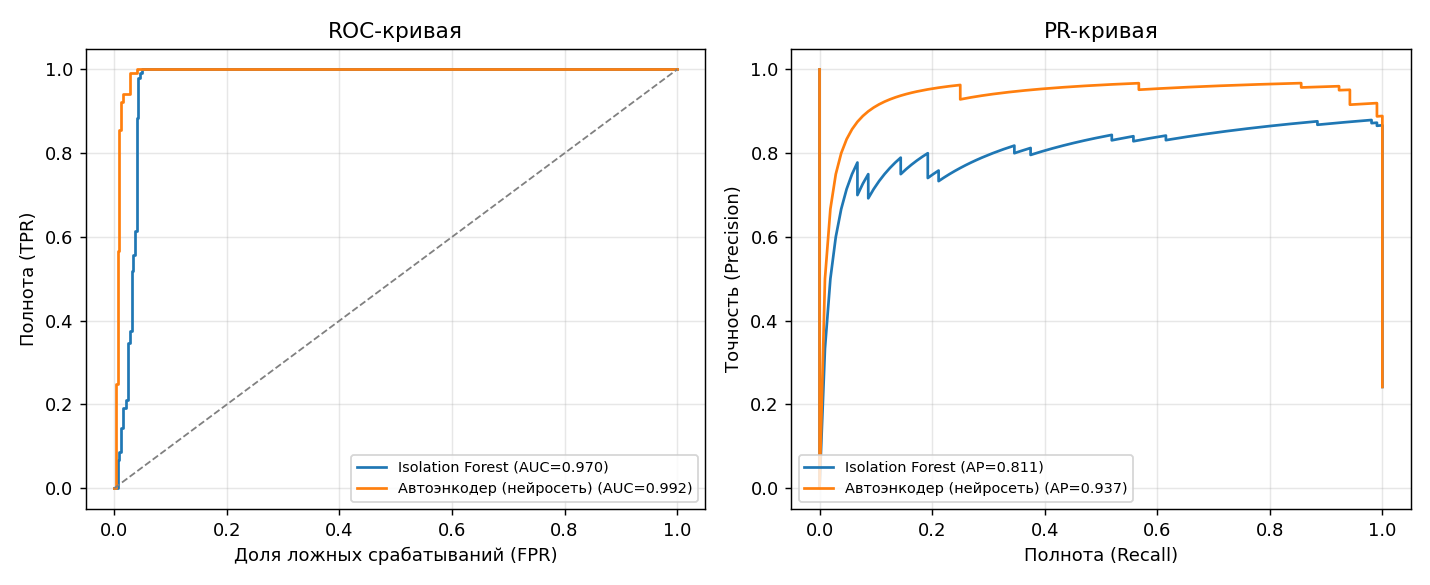
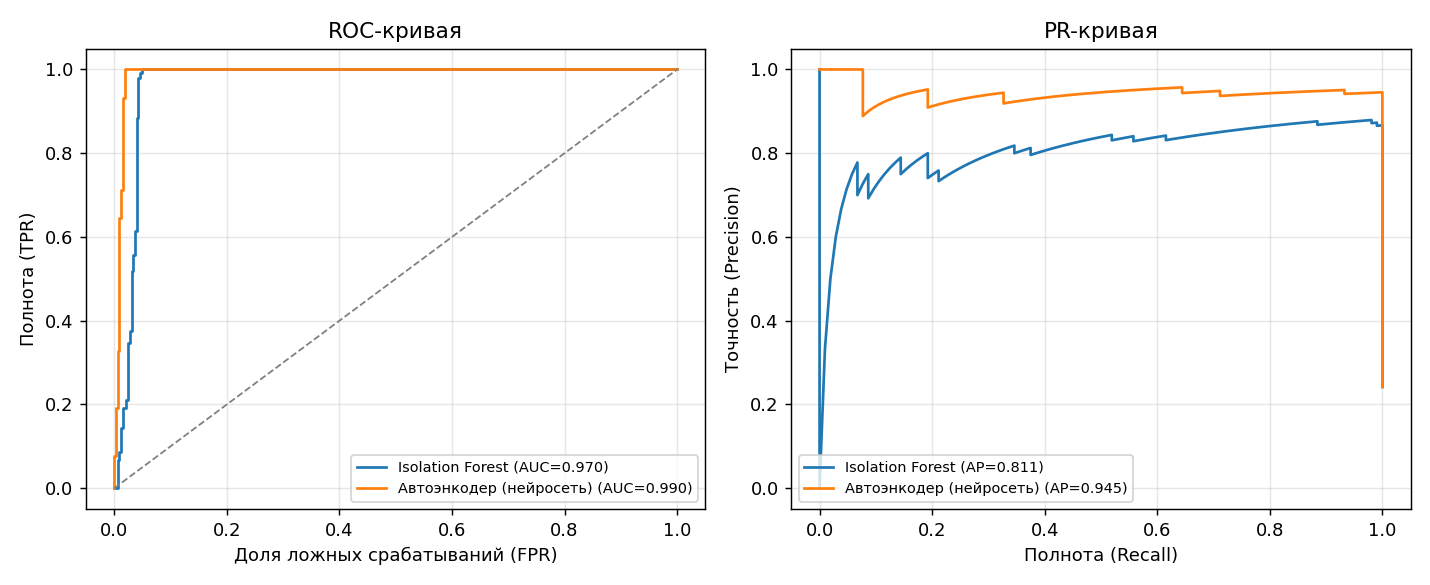
Тестирование: сравнение 4 моделей, подбор гиперпараметров, нагрузка, найденные ошибки, скриншоты

diff --git a/docs/04_testing.md b/docs/04_testing.md
@@ -7,13 +7,16 @@
 | Unit | разбор строк, время с часовым поясом, IPv6, статистика пропусков | `tests/test_parser.py` |
 | Unit | 13 проверок правдоподобия User-Agent, исключения для ботов и Яндекс.Браузера | `tests/test_useragent.py` |
 | Unit | правила 1–6 с поддельным DNS, белый список, приоритет правила 1 | `tests/test_rules.py` |
-| Unit | признаки, разбиение выборок, подбор порога, сохранение/загрузка обеих моделей | `tests/test_ml.py` |
-| Интеграционный | DetectionService, CLI `detect`, REST API (успех и ошибки), веб-страница | `tests/test_pipeline_api.py` |
-| Нагрузочный | полный журнал 395 тыс. строк | вручную, см. 4.4 |
+| Unit | признаки, разбиение выборок, подбор порога, обучение и сохранение всех 4 моделей, отчёт оценки | `tests/test_ml.py` |
+| Unit | хранилище SQLite: сохранение, история, каскадное удаление | `tests/test_storage.py` |
+| Интеграционный | DetectionService, CLI `detect`, REST API (успех и ошибки), история, веб-страница | `tests/test_pipeline_api.py` |
+| Нагрузочный | параллельные запросы к API | `scripts/load_test.py`, см. 4.5 |
+| Производительность | полный журнал 395 тыс. строк | вручную, см. 4.5 |
 
-Запуск: `pytest -q` — 60 тестов, ~10 с. Тесты используют только
+Запуск: `pytest -q` — 64 теста, ~11 с. Тесты используют только
 синтетический журнал и поддельный DNS, поэтому работают без сети и
-реальных данных.
+реальных данных. В GitHub Actions на каждый push запускаются `ruff` и
+`pytest`.
 
 ## 4.2. Оценка ML-компонента
 
@@ -22,24 +25,72 @@
 разбиение 60/20/20 со стратификацией по типу бота.
 
 **Тестовая выборка:** 104 синтетических бота и 326 реальных IP, на которых
-не сработало ни одно надёжное правило.
+не сработало ни одно надёжное правило. Поэтому точность «только правил»
+на ней равна 1 по построению: реальные IP, пойманные правилами, в
+тестовую выборку не входят, а оцениваются отдельно (согласованность ниже).
+
+### Сравнение алгоритмов
+
+Чтобы выбор модели не зависел от одного удачного разбиения, сравнение
+повторено на пяти вариантах внедрения ботов (seed 1–5), для каждого
+заново строятся выборки, обучаются модели и подбирается порог
+(`python scripts/experiments.py access.log`):
+
+| Модель | Precision | Recall | F1 | ROC-AUC | F1 с правилами | Обучение, с | Оценка 1000 IP, мс | Размер, КБ |
+|---|---|---|---|---|---|---|---|---|
+| Isolation Forest | 0.838 | 0.981 | 0.904 ± 0.013 | 0.965 ± 0.007 | 0.913 | 0.35 | 63.0 | 3407 |
+| **Автоэнкодер (нейросеть)** | **0.850** | **1.000** | **0.919 ± 0.017** | **0.969 ± 0.010** | **0.919** | 3.98 | **2.5** | **15** |
+| One-Class SVM | 0.800 | 0.959 | 0.872 ± 0.012 | 0.969 ± 0.004 | 0.893 | 0.01 | 7.0 | 16 |
+| Local Outlier Factor | 0.813 | 0.996 | 0.895 ± 0.022 | 0.950 ± 0.016 | 0.895 | 0.04 | 26.1 | 331 |
+
+Автоэнкодер даёт лучший средний F1 и полноту, а по ROC-AUC делит первое
+место с One-Class SVM. Отрыв от Isolation Forest по F1 (0.919 против
+0.904) сравним с разбросом между сидами, поэтому решающими стали и
+практические свойства: оценка в 25 раз быстрее Isolation Forest, модель
+весит 15 КБ против 3,4 МБ, а ошибка восстановления по каждому признаку
+объясняет решение. Обучение дольше (4 с), но выполняется редко.
+
+### Подбор гиперпараметров автоэнкодера
+
+Перебор 18 архитектур (скрытые слои × размер латентного слоя × dropout),
+выбор — по F1 на validation; полная таблица — в
+[experiments/experiments.md](experiments/experiments.md). Лучшие:
+
+| Скрытые слои | Латентный | Dropout | F1 (val) | Эпох | F1 (test) | ROC-AUC (test) |
+|---|---|---|---|---|---|---|
+| **16-8** | **3** | **0.0** | **0.928** | 300 | 0.963 | 0.990 |
+| 16-8 | 3 | 0.1 | 0.924 | 184 | 0.972 | 0.989 |
+| 16-8 | 6 | 0.0 | 0.920 | 183 | 0.954 | 0.989 |
+| 32-16 | 10 | 0.1 | 0.920 | 288 | 0.959 | 0.983 |
+| 64-32 | 3 | 0.0 | 0.833 | 255 | 0.869 | 0.962 |
+
+Узкая сеть (21 → 16 → 8 → **3** → 8 → 16 → 21) работает лучше широкой:
+широкая (64-32) успевает научиться восстанавливать и необычные векторы, и
+ошибка ботов перестаёт отличаться от ошибки людей. Первоначальная
+архитектура 32-16-6 (F1 на validation 0.904) заменена на 16-8-3.
+Прочие гиперпараметры: Adam (lr 1e-3, weight_decay 1e-5), MSE,
+batch 128, до 300 эпох, ранняя остановка с patience 25.
+
+### Итоговая модель (seed = 42)
 
 | Метод | Precision | Recall | F1 | ROC-AUC |
 |---|---|---|---|---|
 | Только правила | 1.000 | 0.529 | 0.692 | — |
-| Isolation Forest | 0.873 | 0.990 | 0.928 | 0.970 |
-| Правила + Isolation Forest | 0.874 | 1.000 | 0.933 | — |
-| Автоэнкодер (нейросеть) | 0.933 | 0.942 | 0.938 | **0.992** |
-| **Правила + автоэнкодер** | **0.935** | 0.971 | **0.953** | — |
+| Isolation Forest | 0.866 | 0.990 | 0.924 | 0.970 |
+| Правила + Isolation Forest | 0.867 | 1.000 | 0.929 | — |
+| Автоэнкодер (нейросеть) | 0.929 | 1.000 | 0.963 | 0.990 |
+| **Правила + автоэнкодер** | **0.929** | **1.000** | **0.963** | — |
 
 Целевые метрики НФТ-2 (F1 ≥ 0.85, Precision ≥ 0.9) достигнуты
-комбинацией «правила + автоэнкодер».
+комбинацией «правила + автоэнкодер». На пяти сидах средняя точность
+автоэнкодера ниже — 0.85, — поэтому требование к точности выполняется не
+на каждом варианте данных; это учтено в анализе ошибок.
 
 Полнота по типам ботов:
 
 | Тип | Правила | Isolation Forest | Автоэнкодер | Правила + АЭ |
 |---|---|---|---|---|
-| timer | 0.55 | 1.00 | 0.70 | 0.85 |
+| timer | 0.55 | 1.00 | 1.00 | 1.00 |
 | random_slow | 0.00 | 1.00 | 1.00 | 1.00 |
 | distributed | 1.00 | 0.98 | 1.00 | 1.00 |
 | mimic | 0.00 | 1.00 | 1.00 | 1.00 |
@@ -51,7 +102,7 @@
 
 **Согласованность с правилами:** из 124 реальных IP тестовой выборки,
 найденных правилами (в основном поддельные Googlebot/YandexBot),
-автоэнкодер сам считает аномальными 95,2 %, Isolation Forest — 97,6 %,
+автоэнкодер сам считает аномальными 96,0 %, Isolation Forest — 97,6 %,
 хотя эти IP в обучении не участвовали.
 
 ![Матрицы ошибок](images/confusion_matrices.png)
@@ -70,33 +121,73 @@
 
 Разбор ошибок сохраняется в `output/evaluation/errors.csv`.
 
-- **Пропуски автоэнкодера (6 ботов `timer`).** Это боты с длинным периодом
-  (несколько минут) и небольшим числом визитов: их признаки близки к
-  человеку, который изредка открывает сайт. Три из них ловит правило 5,
-  поэтому в комбинации полнота по `timer` — 0.85. Isolation Forest
-  находит всех: для него сильнее отличие по `empty_referer_share` и
-  `static_share`.
-- **Ложные срабатывания автоэнкодера (7 IP).** Типичный набор главных
-  признаков — `query_share`, `unique_path_ratio`, `n_browser_os`,
-  `log_user_agents`: это пользователи, которые активно пользуются поиском
-  и фильтрами, или несколько человек за одним NAT. Часть из них может
-  быть и настоящими ботами, которых не ловят правила, — без ручной
-  разметки это не проверить. Поэтому в отчёте для каждого IP указаны
-  главные признаки, и решение о блокировке остаётся за администратором.
+- **Пропуски.** Автоэнкодер на тестовой выборке ботов не пропустил.
+  Isolation Forest пропустил одного бота `distributed`: у него всего
+  несколько запросов, и по признакам он похож на случайного посетителя;
+  его ловит правило 6.
+- **Ложные срабатывания автоэнкодера (8 из 326 реальных IP).** Чаще всего
+  в главных признаках `query_share`, `unique_path_ratio`,
+  `empty_referer_share`, `log_user_agents`, `n_browser_os`: это посетители,
+  которые активно пользуются поиском и фильтрами, приходят по прямым
+  ссылкам без Referer или сидят за одним NAT с другими. Один IP с
+  наибольшей оценкой (3.3) выделяется долей ответов 5xx — это скорее сбой
+  на стороне сервера, чем бот. Часть таких IP может быть и настоящими
+  ботами, которых не ловят правила, — без ручной разметки это не
+  проверить. Поэтому в отчёте для каждого IP указаны главные признаки, а
+  решение о блокировке остаётся за администратором.
 - **Ограничение оценки.** Синтетические боты построены по нашему же
   представлению о low-and-slow поведении, поэтому метрики на них
-  оптимистичны. Модели обучаются под конкретный сайт: обученные на журнале
-  магазина модели на демо-журнале вымышленного сайта давали много ложных
-  срабатываний, после обучения на нём (`train --labels`) — 6 из 315 IP.
+  оптимистичны. Модели обучаются под конкретный сайт: модели, обученные на
+  журнале магазина, на демо-журнале вымышленного сайта давали сотни ложных
+  срабатываний; после обучения на нём (`train --labels`) — 12 из 315 IP при
+  найденных 59 из 59 ботов.
 
-## 4.4. Производительность
+## 4.4. Найденные и исправленные ошибки
 
-Полный журнал (395 тыс. строк, 150 МБ), правила + обе модели, DNS из
-кэша: **20 с** (ноутбук, 8 логических ядер). Требование НФТ-1 (≤ 60 с) выполнено.
-Первый прогон с DNS-проверкой 2 955 заявленных ботов — около 3 минут
-(50 потоков).
+| Ошибка | Как найдена | Исправление |
+|---|---|---|
+| В прототипе проверки User-Agent 3h–3m стояли после `return` и не выполнялись, ссылались на неопределённые константы | ревью кода при переносе в модуль | перенесены до `return`, добавлены таблицы, тесты на каждую проверку |
+| Проверка 3h срабатывала на Chrome для iOS (CriOS) и приложения Яндекса | прогон на реальном журнале | исключения `CriOS`, `YaApp`, `YaSearch` и др. |
+| Проверка 3i дала 229 ложных срабатываний | прогон на реальном журнале | помечена как слабая: только в отчёт |
+| Стратифицированное разбиение падало на маленьком журнале (группы из 1 IP) | обучение на демо-журнале | редкие группы объединяются, при необходимости — без стратификации |
+| Подобранный порог исключал IP, на оценке которого он стоит (`>=` в `precision_recall_curve` против `>` в детекторе) | расхождение счётчиков в веб-интерфейсе | порог ставится между соседними оценками, регрессионный тест |
+| Веб-страница считала «выше порога» по округлённым оценкам | там же | счётчик по флагу `anomalous` из API |
+| Анализы в API выполнялись строго по очереди: блокировка кэша DNS охватывала весь анализ | нагрузочный тест | блокировка только на чтение и запись файла кэша |
+| `database is locked` при нескольких процессах uvicorn | нагрузочный тест с `--workers 4` | SQLite в режиме WAL, тайм-аут ожидания 30 с |
 
-## 4.5. Функциональное тестирование API
+## 4.5. Производительность и нагрузочное тестирование
+
+**Полный журнал** (395 тыс. строк, 150 МБ), правила + обе модели, DNS из
+кэша: **20 с** (ноутбук, 8 логических ядер). Требование НФТ-1 (≤ 60 с)
+выполнено. Первый прогон с DNS-проверкой 2 955 заявленных ботов — около
+3 минут (50 потоков).
+
+**API** (`scripts/load_test.py`, демо-журнал 20 773 строки / 4,9 МБ,
+24 запроса `POST /api/analyze` на каждый уровень параллельности):
+
+| Процессов uvicorn | Параллельных запросов | Успешно | Запросов/с | p50, с | p95, с |
+|---|---|---|---|---|---|
+| 1 | 1 | 24 / 24 | 1.26 | 0.77 | 0.86 |
+| 1 | 4 | 24 / 24 | 1.35 | 2.95 | 3.65 |
+| 1 | 8 | 24 / 24 | 1.33 | 5.90 | 8.97 |
+| 4 | 1 | 24 / 24 | 1.37 | 0.72 | 0.79 |
+| 4 | 4 | 24 / 24 | 3.06 | 0.73 | 1.50 |
+| 4 | 8 | 24 / 24 | 3.13 | 1.88 | 6.09 |
+
+В одном процессе пропускная способность не растёт с числом потоков:
+разбор журнала и признаки — код на чистом Python, и GIL не даёт им
+выполняться параллельно. Масштабирование — несколькими процессами
+(`uvicorn --workers N`): с 4 процессами пропускная способность выросла в
+2,3 раза. На Windows часть воркеров uvicorn может не запуститься
+(`WinError 10022`), на Linux такой проблемы нет.
+
+## 4.6. Функциональное тестирование
+
+### API
+
+Swagger (`/docs`) описывает все 8 эндпоинтов и схемы данных:
+
+![Swagger](images/ui_swagger.png)
 
 ```bash
 curl -F "file=@data/demo/demo_access.log" "http://127.0.0.1:8000/api/analyze?dns_offline=true"
@@ -105,26 +196,67 @@ curl -F "file=@data/demo/demo_access.log" "http://127.0.0.1:8000/api/analyze?dns
 Ответ (сокращён; API запущен с `LSD_MODELS_DIR=models/demo`):
 
 ```json
-{"summary": {"lines": 20773, "unique_ips": 374, "suspicious_ips": 64,
-             "by_reason": {"model:autoencoder": 32, "rule5": 9, "rule6": 23}},
- "ips": [{"ip": "198.18.0.1", "rules": [5],
-          "scores": {"iforest": 0.63544, "autoencoder": 2.1858},
-          "is_bot": true, "reason": "rule5",
-          "description": "аномально равномерные интервалы (CV=0.0515), аномалия iforest=0.635, autoencoder=2.186 (признаки: interval_entropy, n_browser_os, log_median_interval)"}]}
+{"decision_model": "autoencoder",
+ "summary": {"lines": 20773, "unique_ips": 374, "suspicious_ips": 71,
+             "by_reason": {"model:autoencoder": 39, "rule6": 23, "rule5": 9}},
+ "ips": [{"ip": "198.18.2.1", "requests": 29, "rules": [5], "is_bot": true, "reason": "rule5",
+          "description": "аномально равномерные интервалы (CV=0.0255), аномалия iforest=0.646, autoencoder=5.647 (признаки: interval_entropy, log_median_interval, empty_referer_share)"}]}
 ```
 
-Ошибки: файл не в формате Apache → `422`, неизвестный анализ → `404`,
-недопустимые параметры (например, `cv_threshold=5`) → `422` с описанием
-от Pydantic.
+| Сценарий | Ожидаемый результат | Тест |
+|---|---|---|
+| Загрузка журнала | 200, сводка, IP с описаниями | `test_api_analyze_flow` |
+| Результат сохраняется и открывается повторно | тот же список IP, модель | `test_api_analyze_flow` |
+| История анализов и история IP | новый анализ первым; IP найден | `test_api_analyze_flow` |
+| Удаление анализа | 204, затем 404; история IP пуста | `test_api_analyze_flow` |
+| Файл не в формате Apache | 422 | `test_api_errors` |
+| Недопустимый параметр (`cv_threshold=5`) | 422 с описанием от Pydantic | `test_api_errors` |
+| Неизвестный анализ | 404 | `test_api_errors` |
 
-## 4.6. Оценка эффективности (AS-IS / TO-BE)
+### Веб-интерфейс
+
+![Веб-интерфейс](images/ui_results.png)
+
+Проверено вручную: загрузка файла, сводка, график причин и гистограмма
+оценок с порогом, таблица с поиском, фильтрами «только боты / найдены
+только моделью / по правилу» и сортировкой, выгрузка JSON, история
+анализов (открыть / удалить), открытие результата по ссылке `/#id=…`.
+
+### Соответствие функциональным требованиям
+
+| Требование | Где реализовано | Проверка |
+|---|---|---|
+| ФТ-1 разбор журнала | `parser.py` | `test_parser.py` |
+| ФТ-2 DNS-проверка поисковиков | `dns_verify.py`, правило 1 | `test_rules.py` |
+| ФТ-3 невозможные UA | `useragent.py`, правило 3 | `test_useragent.py` |
+| ФТ-4 равномерные интервалы | правило 5 | `test_rules.py` |
+| ФТ-5 подсеть в окне | правило 6 | `test_rules.py` |
+| ФТ-6 смена браузера/ОС | правило 2 | `test_rules.py` |
+| ФТ-7 признаки (≥ 15) | `features.py`, 21 признак | `test_ml.py` |
+| ФТ-8 обучение, сохранение, загрузка моделей | `models/`, `training.py` | `test_ml.py` |
+| ФТ-9 оценка и итоговое решение | `pipeline.py` | `test_pipeline_api.py` |
+| ФТ-10 синтетические боты | `simulate.py`, `demo.py` | `test_ml.py` |
+| ФТ-11 метрики и графики | `evaluation.py` | `test_ml.py` |
+| ФТ-12 TXT и JSON | `report.py`, CLI | `test_cli_detect` |
+| ФТ-13 REST API | `api/` | `test_pipeline_api.py` |
+| ФТ-14 веб-страница | `web/` | `test_web_page`, вручную |
+| ФТ-15 белый список | правило 6, `--whitelist` | `test_rule6_whitelist` |
+| ФТ-16 история анализов | `api/storage.py`, SQLite | `test_storage.py`, `test_api_analyze_flow` |
+
+## 4.7. Оценка эффективности (AS-IS / TO-BE)
 
 | | AS-IS (прототип) | TO-BE (система) |
 |---|---|---|
-| Методы | 5 правил | правила + 2 ML-модели |
-| Полнота на low-and-slow ботах | 0.53 | 0.97 |
-| Точность | 1.00 | 0.94 |
+| Методы | 5 правил | правила + нейросетевой автоэнкодер (+ 3 модели для сравнения) |
+| Полнота на low-and-slow ботах | 0.53 | 1.00 |
+| Точность | 1.00 | 0.93 |
 | Объяснение | номер правила | правило + главные признаки модели |
 | Интерфейс | CLI | CLI, REST API, веб-страница |
-| Тесты | нет | 60 тестов, CI |
+| Хранение результатов | файл | SQLite: история анализов и IP |
+| Тесты | нет | 64 теста, CI |
 | Ошибки в коде | проверки 3h–3m не выполнялись | исправлено, покрыто тестами |
+
+Для администратора это значит: из каждых 100 медленных ботов прототип
+находил около 53, система — практически всех, при цене в 8 ложных
+срабатываний на 326 обычных IP (2,5 %), каждое из которых
+сопровождается объяснением для ручной проверки.

diff --git a/docs/experiments/experiments.md b/docs/experiments/experiments.md
@@ -1,0 +1,31 @@
+## Сравнение моделей (5 вариантов внедрения ботов, среднее ± ст. отклонение)
+
+| Модель | Precision | Recall | F1 | ROC-AUC | F1 с правилами | Обучение, с | Оценка 1000 IP, мс | Размер, КБ |
+|---|---|---|---|---|---|---|---|---|
+| Isolation Forest | 0.838 | 0.981 | 0.904 ± 0.013 | 0.965 ± 0.007 | 0.913 | 0.35 | 63.0 | 3407 |
+| Автоэнкодер (нейросеть) | 0.85 | 1.0 | 0.919 ± 0.017 | 0.969 ± 0.010 | 0.919 | 3.98 | 2.5 | 15 |
+| One-Class SVM | 0.8 | 0.959 | 0.872 ± 0.012 | 0.969 ± 0.004 | 0.893 | 0.01 | 7.0 | 16 |
+| Local Outlier Factor | 0.813 | 0.996 | 0.895 ± 0.022 | 0.950 ± 0.016 | 0.895 | 0.04 | 26.1 | 331 |
+
+## Подбор архитектуры автоэнкодера (seed = 42, сортировка по F1 на validation)
+
+| hidden | latent | dropout | val_f1 | epochs | test_f1 | test_roc_auc |
+|---|---|---|---|---|---|---|
+| 16-8 | 3 | 0.0 | 0.9279 | 300 | 0.963 | 0.9904 |
+| 16-8 | 3 | 0.1 | 0.9238 | 184 | 0.972 | 0.9891 |
+| 16-8 | 6 | 0.0 | 0.9196 | 183 | 0.9541 | 0.9888 |
+| 32-16 | 10 | 0.1 | 0.9196 | 288 | 0.9585 | 0.983 |
+| 16-8 | 6 | 0.1 | 0.9156 | 300 | 0.9541 | 0.9888 |
+| 16-8 | 10 | 0.1 | 0.9115 | 300 | 0.945 | 0.9852 |
+| 32-16 | 10 | 0.0 | 0.9075 | 300 | 0.9266 | 0.985 |
+| 32-16 | 6 | 0.1 | 0.9041 | 300 | 0.9378 | 0.9918 |
+| 16-8 | 10 | 0.0 | 0.9035 | 175 | 0.945 | 0.9856 |
+| 32-16 | 6 | 0.0 | 0.9027 | 300 | 0.939 | 0.9944 |
+| 64-32 | 10 | 0.1 | 0.8938 | 260 | 0.9352 | 0.9886 |
+| 32-16 | 3 | 0.1 | 0.8918 | 233 | 0.9369 | 0.9796 |
+| 32-16 | 3 | 0.0 | 0.8918 | 167 | 0.9406 | 0.9813 |
+| 64-32 | 10 | 0.0 | 0.8811 | 300 | 0.9058 | 0.9838 |
+| 64-32 | 6 | 0.1 | 0.8766 | 300 | 0.8927 | 0.9786 |
+| 64-32 | 3 | 0.1 | 0.8439 | 225 | 0.8772 | 0.9693 |
+| 64-32 | 6 | 0.0 | 0.8382 | 300 | 0.8403 | 0.9659 |
+| 64-32 | 3 | 0.0 | 0.8327 | 255 | 0.8692 | 0.9624 |
